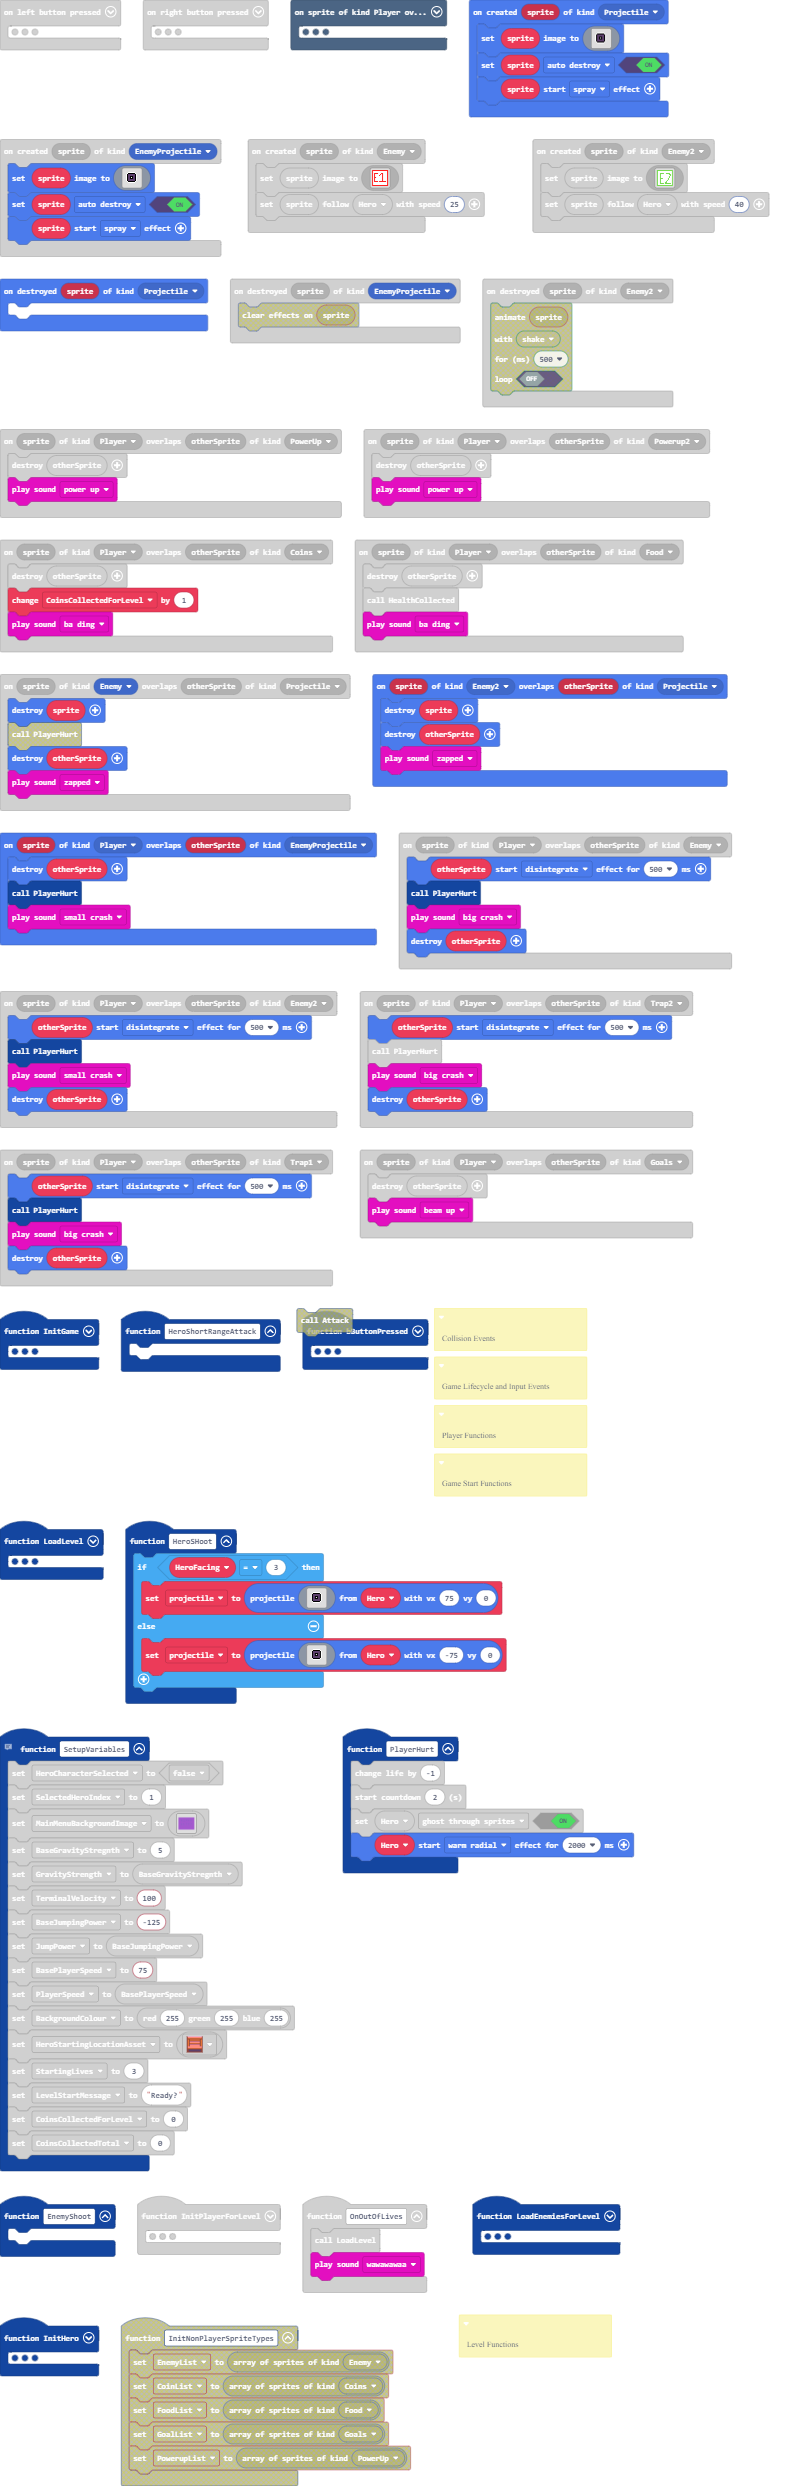
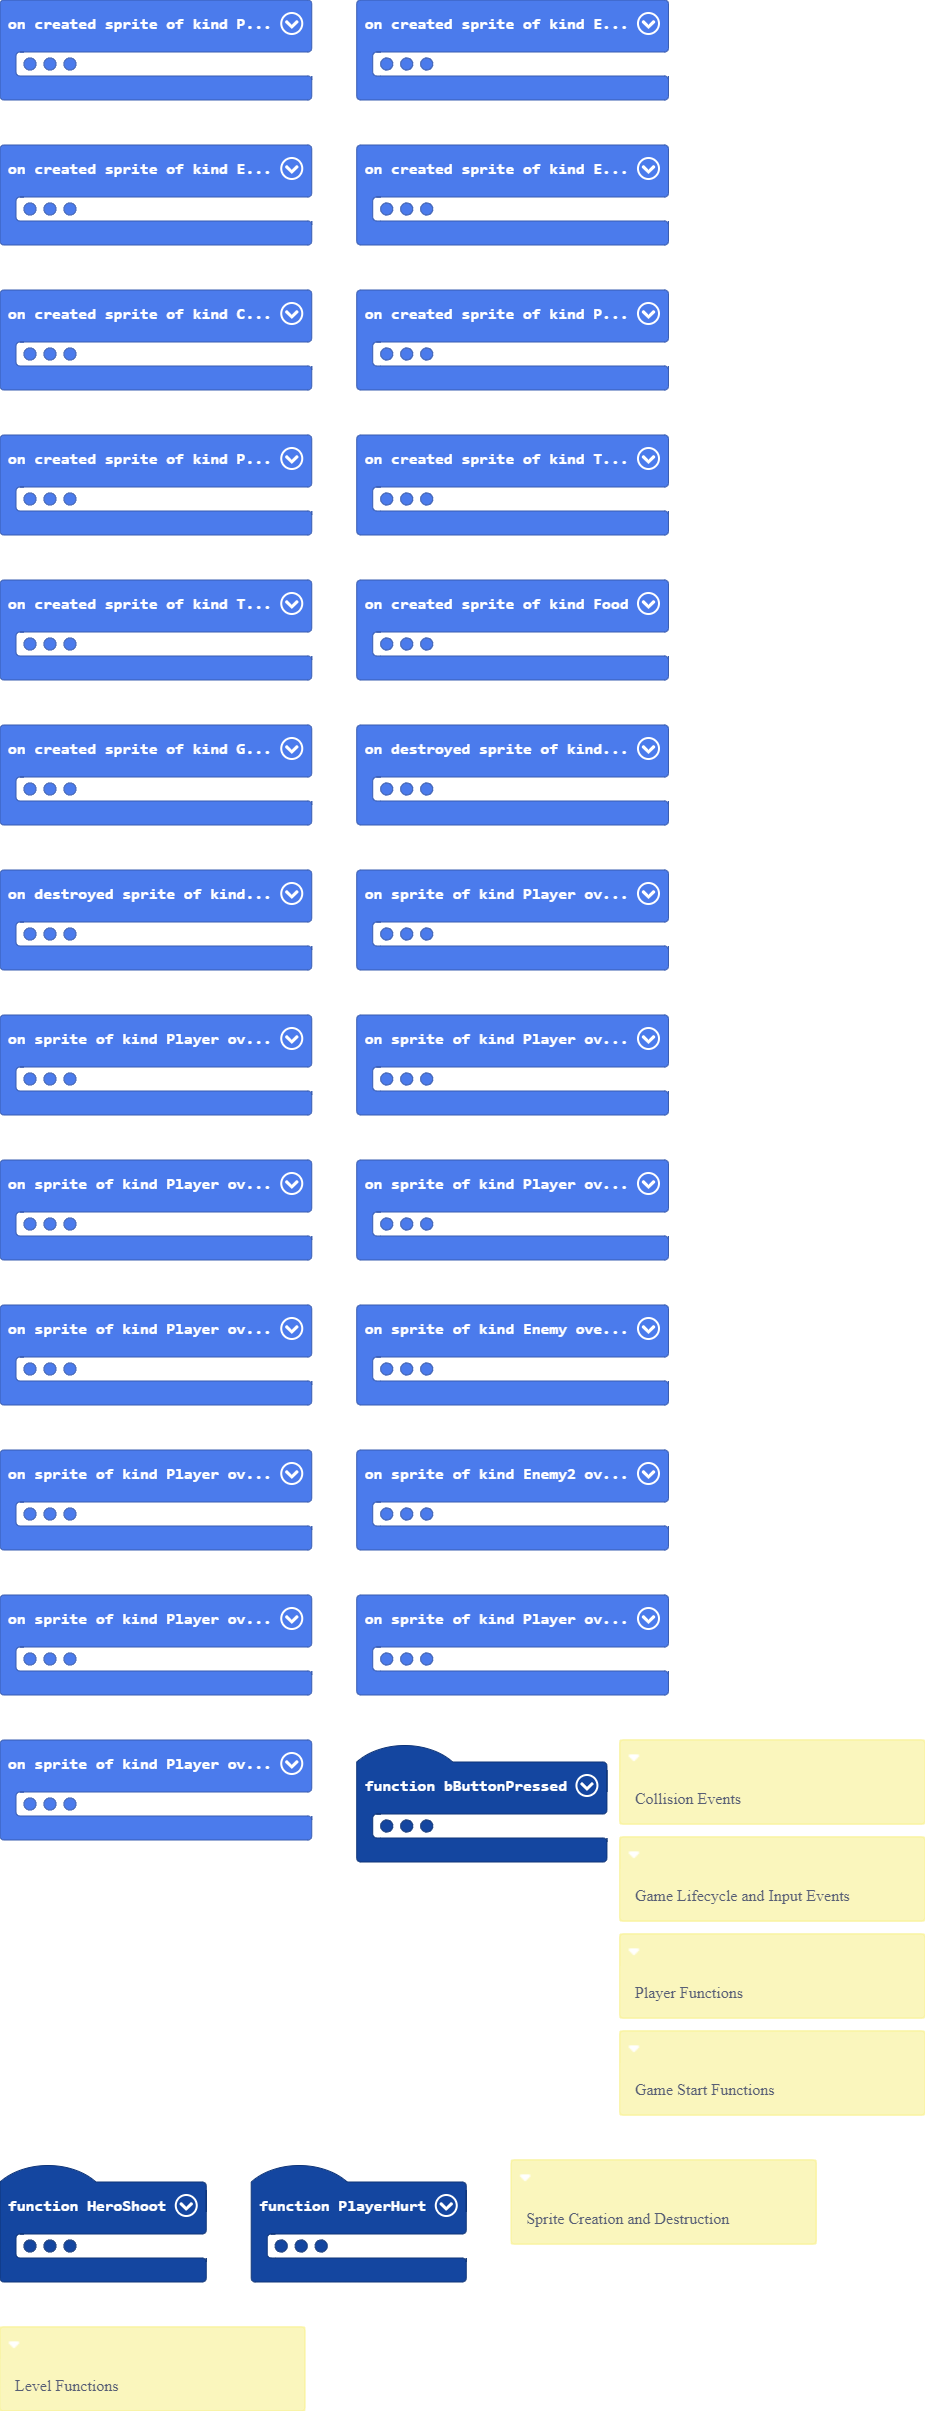
Re-organised block layout

diff --git a/main.ts b/main.ts
@@ -14,10 +14,16 @@ namespace SpriteKind {
  * Player Functions
  */
 /**
+ * Sprite Creation and Destruction
+ */
+/**
  * Game Lifecycle and Input Events
  */
 /**
  * Game Start Functions
+ */
+/**
+ * Collision Events
  */
 /**
  * Level Functions
@@ -38,7 +44,7 @@ function SelectHero () {
 }
 // Level Functions
 function bButtonPressed () {
-    HeroSHoot()
+    HeroShoot()
 }
 sprites.onCreated(SpriteKind.Goals, function (sprite) {
     sprite.setImage(assets.image`Goal`)
@@ -633,9 +639,6 @@ controller.left.onEvent(ControllerButtonEvent.Pressed, function () {
         HeroFacing = 9
     }
 })
-/**
- * Collision Events
- */
 sprites.onOverlap(SpriteKind.Player, SpriteKind.PowerUp, function (sprite, otherSprite) {
     otherSprite.destroy()
     music.powerUp.play()
@@ -645,13 +648,6 @@ sprites.onOverlap(SpriteKind.Enemy, SpriteKind.Projectile, function (sprite, oth
     otherSprite.destroy()
     music.zapped.play()
 })
-function HeroSHoot () {
-    if (HeroFacing == 3) {
-        projectile = sprites.createProjectileFromSprite(assets.image`Projectile`, Hero, 75, 0)
-    } else {
-        projectile = sprites.createProjectileFromSprite(assets.image`Projectile`, Hero, -75, 0)
-    }
-}
 sprites.onDestroyed(SpriteKind.EnemyProjectile, function (sprite) {
 	
 })
@@ -728,6 +724,13 @@ controller.right.onEvent(ControllerButtonEvent.Pressed, function () {
 sprites.onCreated(SpriteKind.Coins, function (sprite) {
     sprite.setImage(assets.image`Coin`)
 })
+function HeroShoot () {
+    if (HeroFacing == 3) {
+        projectile = sprites.createProjectileFromSprite(assets.image`Projectile`, Hero, 75, 0)
+    } else {
+        projectile = sprites.createProjectileFromSprite(assets.image`Projectile`, Hero, -75, 0)
+    }
+}
 sprites.onOverlap(SpriteKind.Enemy2, SpriteKind.Projectile, function (sprite, otherSprite) {
     sprite.destroy()
     otherSprite.destroy()
@@ -996,9 +999,9 @@ let BaseGravityStregnth = 0
 let GravityStrength = 0
 let TerminalVelocity = 0
 let CoinsCollectedTotal = 0
+let projectile: Sprite = null
 let JumpPower = 0
 let HasDoubleJumped = false
-let projectile: Sprite = null
 let HeroFacing = 0
 let CharacterList: Image[] = []
 let SelectedHeroIndex = 0
